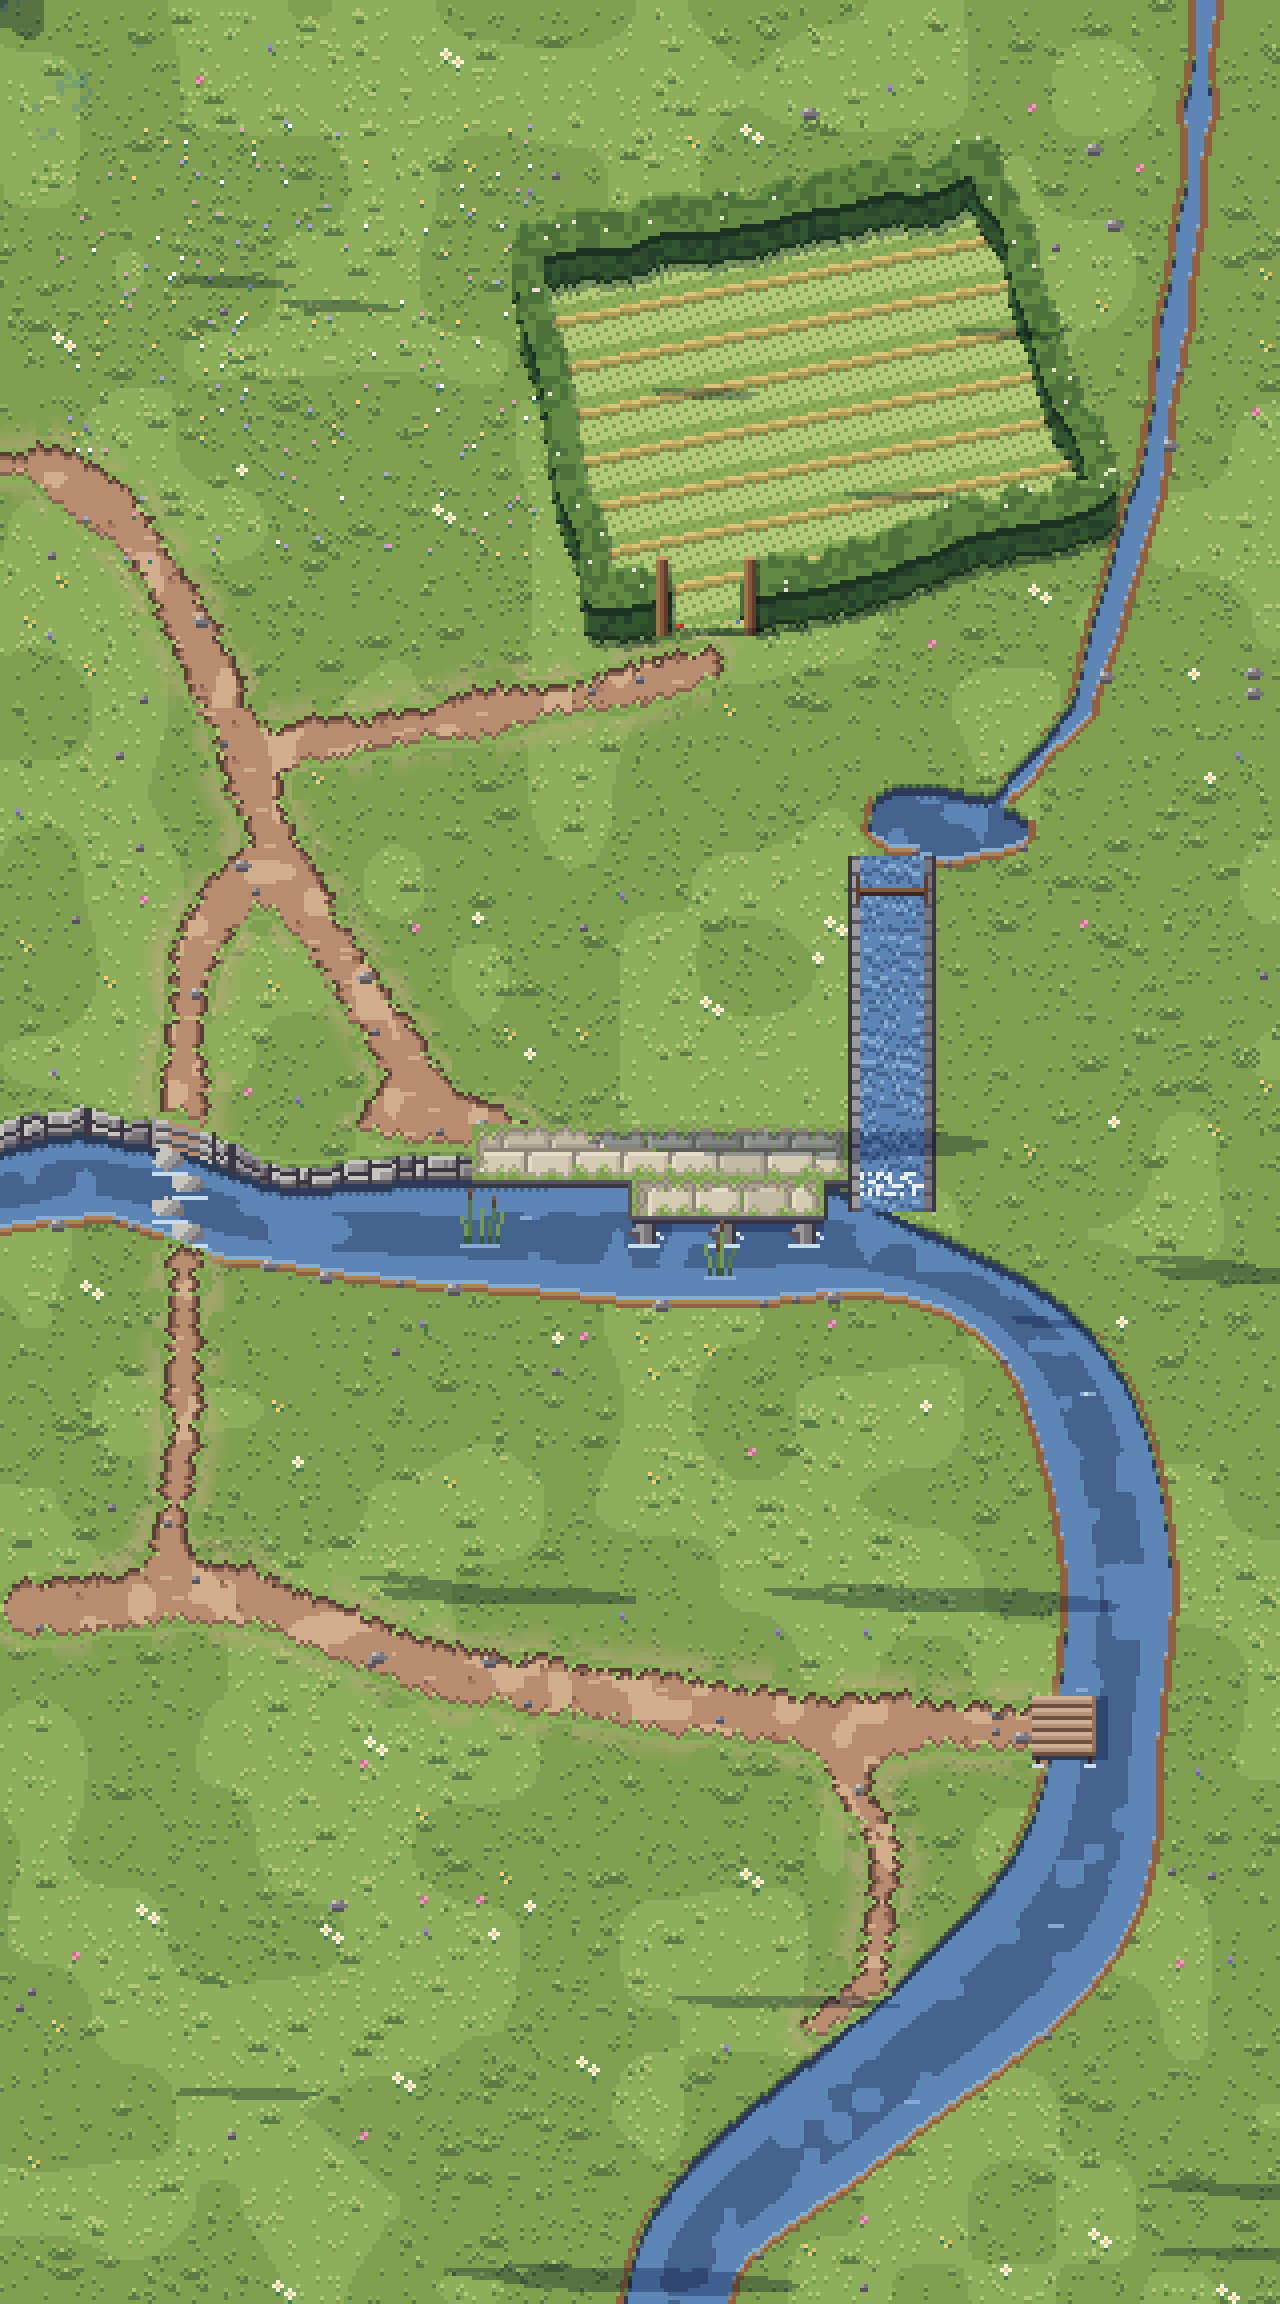
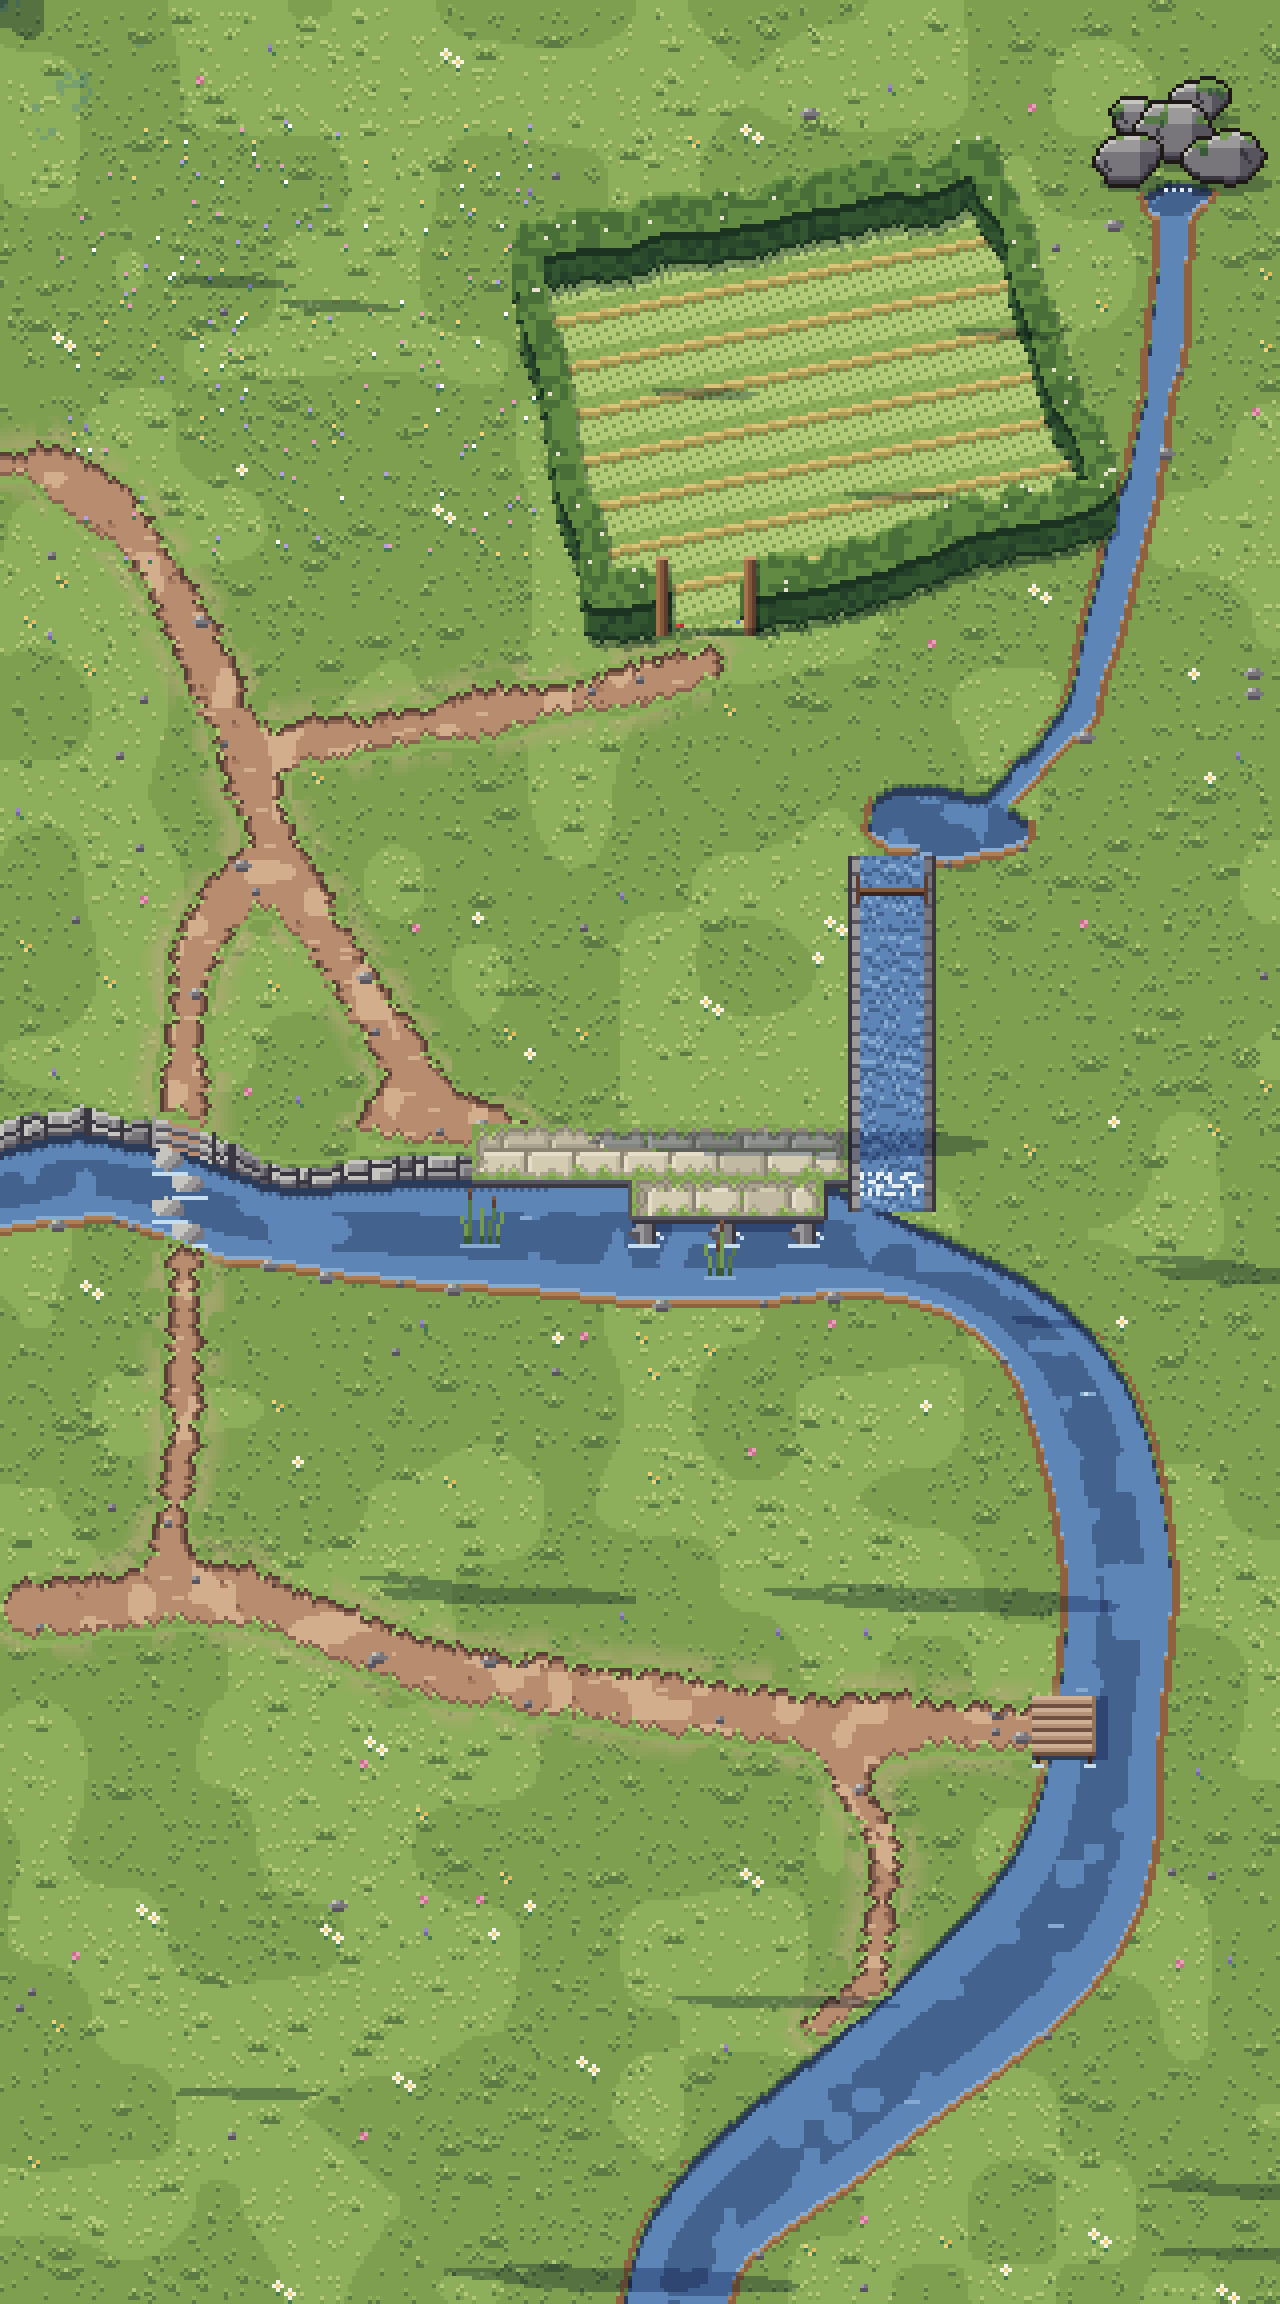
The riverside's brook rises at a spring inside the zone (Claude A after #86): it wells up into a small pool at the foot of a heap of mossy boulders in the north-east corner, instead of coming out of the world's edge, and runs down to the millpond wide enough to read and to flow
Claude-Session: https://claude.ai/code/session_01AbFmubxjF8fJSwxWbE77B9

Changed region(s): [[0.7812, 0.0, 1.0, 0.375]]

diff --git a/lib/zone-maps.ts b/lib/zone-maps.ts
@@ -433,56 +433,56 @@ export const zoneMaps: Record<ZoneId, ZoneMap> = {
       ['hive-2', 'beehive', 66, 46, 22, 30],
     ],
     walk: [
-      '74.2#4.',
-      '74.2#4.',
-      '74.2#4.',
-      '74.2#4.',
-      '74.2#4.',
-      '74.2#4.',
-      '74.2#4.',
-      '74.2#4.',
-      '59.4#11.2#4.',
-      '53.10#11.2#4.',
-      '50.13#11.1#5.',
-      '44.20#10.1#5.',
-      '39.25#9.2#5.',
-      '32.33#8.2#5.',
-      '32.27#2.4#8.2#5.',
-      '32.21#8.4#8.2#5.',
-      '10.5#17.16#14.3#8.2#5.',
-      '10.5#2.5#10.9#21.4#7.2#5.',
-      '17.5#10.3#28.3#6.3#5.',
-      '32.3#24.7#6.3#5.',
-      '32.3#24.8#5.3#5.',
-      '32.4#27.4#5.2#6.',
-      '32.4#28.3#5.2#6.',
-      '33.3#4.4#20.4#4.2#6.',
-      '33.3#4.4#20.4#4.2#6.',
-      '33.3#29.4#3.2#6.',
+      '80.',
+      '80.',
+      '80.',
+      '80.',
+      '80.',
+      '73.4#3.',
+      '69.8#3.',
+      '69.7#4.',
+      '59.4#6.10#1.',
+      '53.10#5.11#1.',
+      '50.13#5.5#1.5#1.',
+      '44.20#5.9#2.',
+      '39.25#7.5#4.',
+      '32.33#6.4#5.',
+      '32.27#2.4#7.3#5.',
+      '32.21#8.4#7.3#5.',
+      '10.5#17.16#14.3#7.3#5.',
+      '10.5#2.5#10.9#21.4#6.2#6.',
+      '17.5#10.3#28.3#6.2#6.',
+      '32.3#24.7#6.2#6.',
+      '32.3#24.8#5.2#6.',
+      '32.4#27.4#4.3#6.',
+      '32.4#28.3#4.3#6.',
+      '33.3#4.4#20.4#3.3#6.',
+      '33.3#4.4#20.4#3.3#6.',
+      '33.3#29.4#2.2#7.',
       '33.3#29.4#2.2#7.',
       '34.3#28.5#1.2#7.',
-      '34.3#29.4#1.2#7.',
-      '34.3#16.5#8.4#1.2#7.',
+      '34.3#29.7#7.',
+      '34.3#16.5#8.7#7.',
       '34.3#16.5#2.13#7.',
       '34.4#20.15#7.',
       '34.4#17.17#8.',
       '35.3#14.20#8.',
       '35.3#3.1#4.22#1.3#8.',
-      '36.6#4.18#5.3#8.',
-      '36.6#4.14#9.2#9.',
+      '36.6#4.18#4.3#9.',
+      '36.6#4.14#8.3#9.',
       '36.6#4.11#11.3#9.',
       '36.18#14.3#9.',
-      '36.15#17.2#10.',
+      '36.15#16.3#10.',
       '37.3#27.3#10.',
       '67.3#10.',
       '67.2#11.',
-      '67.2#11.',
       '66.3#11.',
-      '65.3#12.',
+      '66.3#11.',
+      '65.4#11.',
       '64.3#13.',
       '63.3#14.',
-      '63.2#15.',
-      '54.10#16.',
+      '62.3#15.',
+      '54.11#15.',
       '54.10#16.',
       '54.11#15.',
       '54.11#15.',
@@ -6775,7 +6775,7 @@ export type ZoneDeck = {
 export const FLOW_FRAMES = 8;
 export const FLOW_FRAME_MS = 150;
 export const zoneFlow: Partial<Record<ZoneId, readonly [number, number, number, number]>> = {
-  riverside: [0, 0, 304, 576],
+  riverside: [0, 47, 301, 529],
   woodland: [51, 0, 269, 317],
   park: [28, 0, 153, 576],
   ridge: [191, 390, 77, 29],
@@ -6955,54 +6955,54 @@ export const zoneTerrain: Record<ZoneId, readonly string[]> = {
     '36.8=36.',
   ].map(unrleTerrain),
   riverside: [
-    '75.1~4.',
-    '75.1~4.',
-    '75.1~4.',
-    '75.1~4.',
-    '74.2~4.',
-    '74.2~4.',
-    '74.2~4.',
-    '74.2~4.',
-    '74.1~5.',
-    '59.3^12.1~5.',
-    '52.11^11.1~5.',
-    '48.15^11.1~5.',
-    '40.24^10.1~5.',
-    '35.25^1.3^10.1~5.',
-    '32.22^7.4^8.2~5.',
-    '32.17^13.3^8.2~5.',
-    '32.13^18.2^8.2~5.',
-    '32.7^24.2^8.1~6.',
-    '32.2^29.3^7.1~6.',
-    '32.2^29.3^7.1~6.',
+    '80.',
+    '80.',
+    '80.',
+    '80.',
+    '80.',
+    '74.2^4.',
+    '70.2^1.4^3.',
+    '70.6^4.',
+    '70.8^2.',
+    '59.3^7.10^1.',
+    '52.11^6.3^2.5^1.',
+    '48.15^7.1^9.',
+    '40.24^8.3~5.',
+    '35.25^1.3^8.3~5.',
+    '32.22^7.4^7.2~6.',
+    '32.17^13.3^7.2~6.',
+    '32.13^18.2^7.2~6.',
+    '32.7^24.2^7.2~6.',
+    '32.2^29.3^6.2~6.',
+    '32.2^29.3^6.2~6.',
     '32.3^29.2^6.2~6.',
     '33.2^29.2^6.2~6.',
     '33.2^29.3^5.2~6.',
-    '33.3^29.2^5.2~6.',
+    '33.3^29.2^5.1~7.',
     '34.2^29.3^4.1~7.',
-    '34.2^29.3^4.1~7.',
-    '34.2^29.4^3.1~7.',
-    '34.2^30.3^3.1~7.',
+    '34.2^29.3^3.2~7.',
+    '34.2^29.4^2.2~7.',
+    '34.2^30.3^2.2~7.',
     '2.3=29.2^31.3^1.2~7.',
-    '6=28.3^30.3^1.2~7.',
-    '3.5=27.2^26.1^2.4^1.2~7.',
+    '6=28.3^30.3^1.1~8.',
+    '3.5=27.2^26.1^2.4^2~8.',
     '4.4=27.2^22.11^2~8.',
     '5.4=26.3^18.14^2~8.',
-    '6.4=25.3^17.14^1.2~8.',
-    '8.2=26.2^14.14^4.1~9.',
+    '6.4=25.3^17.14^3~8.',
+    '8.2=26.2^14.14^3.2~9.',
     '9.2=25.2^1.1^1.1^5.14^8.2~9.',
     '9.3=24.6^4.13^10.2~9.',
-    '10.2=24.6^4.10^13.1~10.',
+    '10.2=24.6^4.10^12.2~10.',
     '10.3=23.6^4.7^15.2~10.',
     '11.3=23.11^20.2~10.',
     '11.3=54.2~10.',
-    '11.4=25.5=23.1~11.',
+    '11.4=25.5=22.2~11.',
     '12.3=22.7=23.2~11.',
-    '12.3=14.13=25.1~12.',
-    '13.3=11.9=31.1~12.',
-    '13.3=2.14=34.1~13.',
-    '14.12=39.1~14.',
-    '14.5=1.1=43.1~15.',
+    '12.3=14.13=25.2~11.',
+    '13.3=11.9=30.2~12.',
+    '13.3=2.14=34.2~12.',
+    '14.12=39.2~13.',
+    '14.5=1.1=43.2~14.',
     '14.3=46.2~15.',
     '14.3=38.5~2.2~16.',
     '15.2=38.8~17.',

diff --git a/scripts/art/valley_zones.py b/scripts/art/valley_zones.py
@@ -1203,12 +1203,20 @@ def riverside(frame: int = 0):
     # a stone-lined headrace leaves the pond by a sluice and drops into the wheel pit's
     # north end at about axle height (breastshot, the wheel turning north side down); the
     # pit runs south between coursed stone walls and its tailrace spills into the river
-    brook = worlds.thick([(302, -6), (298, 50), (288, 118), (270, 178), (248, 202)], 2.5, seed=1410)
+    # (Claude A after #86: not out of the world's edge) the brook rises at a spring in the
+    # zone's north-east corner, welling up into a small pool at the foot of a heap of
+    # mossy boulders, and runs down wide enough to read
+    spring_pool = blob(294, 50, 8, 4, seed=1409, rough=0.2)
+    brook = worlds.thick([(294, 52), (292, 84), (286, 118), (270, 178), (248, 202)], 3.5, seed=1410)
     pond = blob(236, 206, 19, 9, seed=1411, rough=0.18)
     lead = {(x, y) for x in range(mx - 2, mx + 12) for y in range(212, mt - 30)}
-    millwater = (brook | pond) - lead
+    millwater = (brook | pond | spring_pool) - lead
     bank(cv, millwater, seed=1412)
-    water_body(cv, millwater, set(pond), seed=1413, glints=8)
+    water_body(cv, millwater, set(pond) | set(spring_pool), seed=1413, glints=10)
+    spring_rocks = outcrop(cv, [(282, 46, 16, 12), (306, 46, 18, 13), (294, 40, 20, 14), (300, 30, 14, 10), (284, 34, 12, 9)],
+                           seed=1408, moss=True)
+    for k in range(4):  # the water welling out from under the stones
+        cv.set(291 + k * 2, 47, WTR[4] if k % 2 else '#E8F0F2')
     race = {(x, y) for x in range(mx - 6, mx + 16) for y in range(214, mt + 2)}
     for (x, y) in race:
         inner = mx - 3 <= x < mx + 13
@@ -1227,7 +1235,7 @@ def riverside(frame: int = 0):
         cv.set(x, 222, WOOD[2]); cv.set(x, 223, WOOD[0])
     for y in range(219, 226):
         cv.set(mx - 4, y, WOOD[1]); cv.set(mx + 13, y, WOOD[1])
-    race |= millwater
+    race |= millwater | spring_rocks
     towpath = {(x, y) for x in range(118, mx - 6) for y in range(mt - 20, mt - 6)}
     # the lane to the mill, in from the garden's footpath at the same rows and width at
     # the seam (garden rows 112-119, Claude B's #75), then down the meadow to the mill yard
